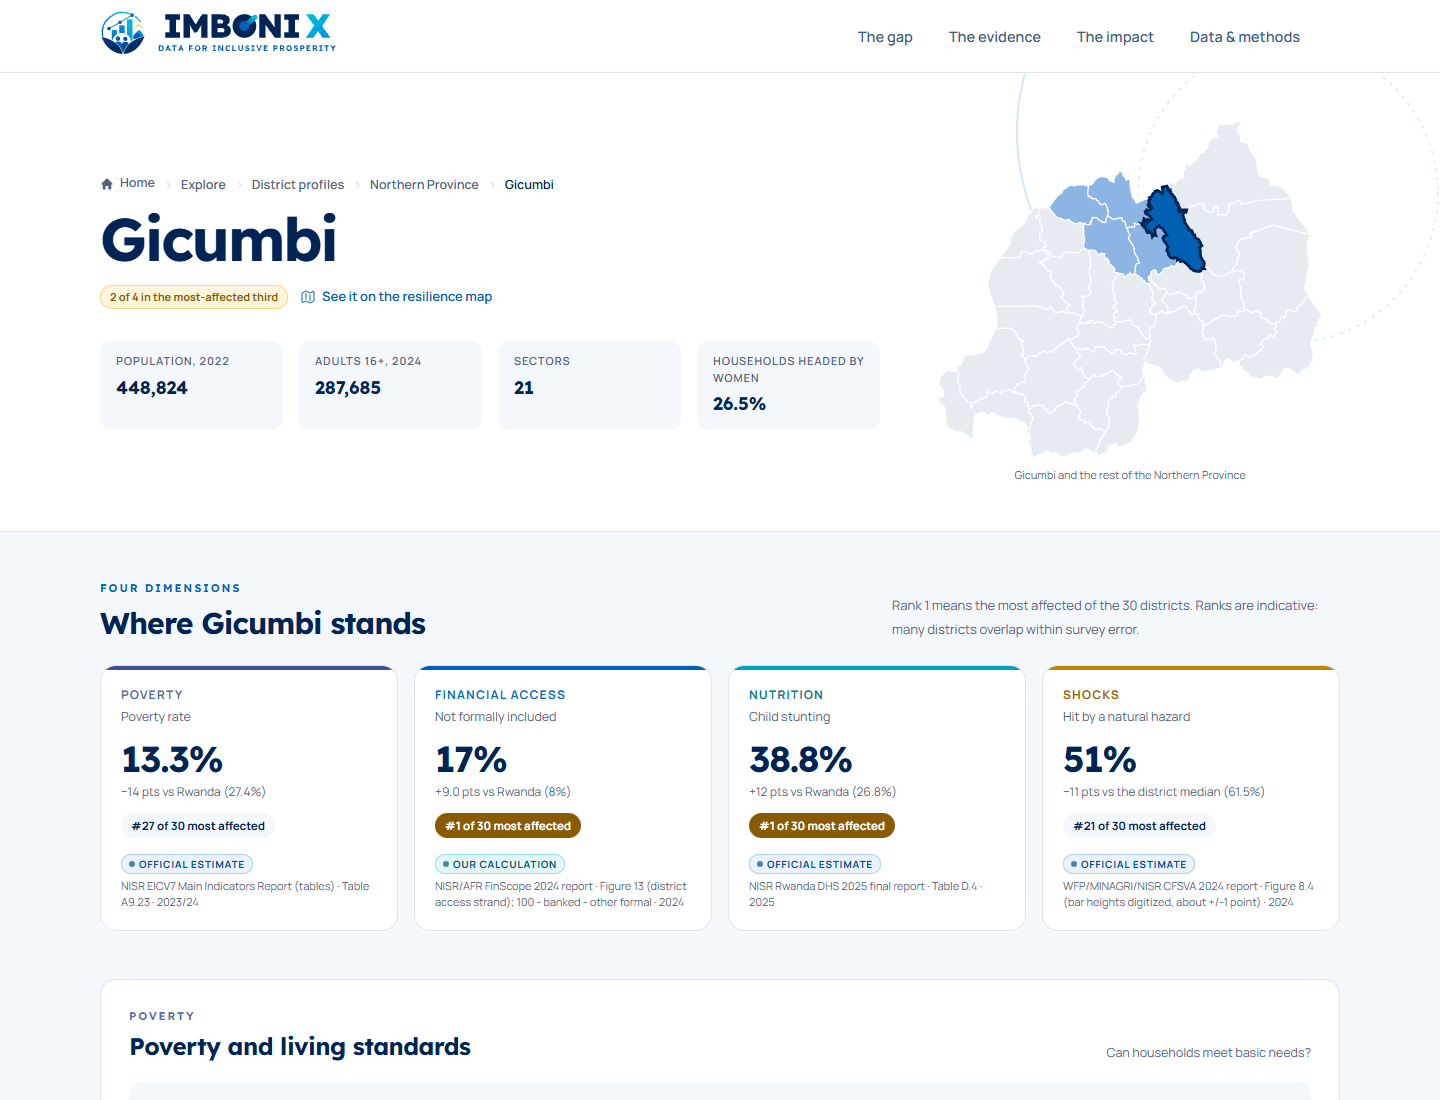
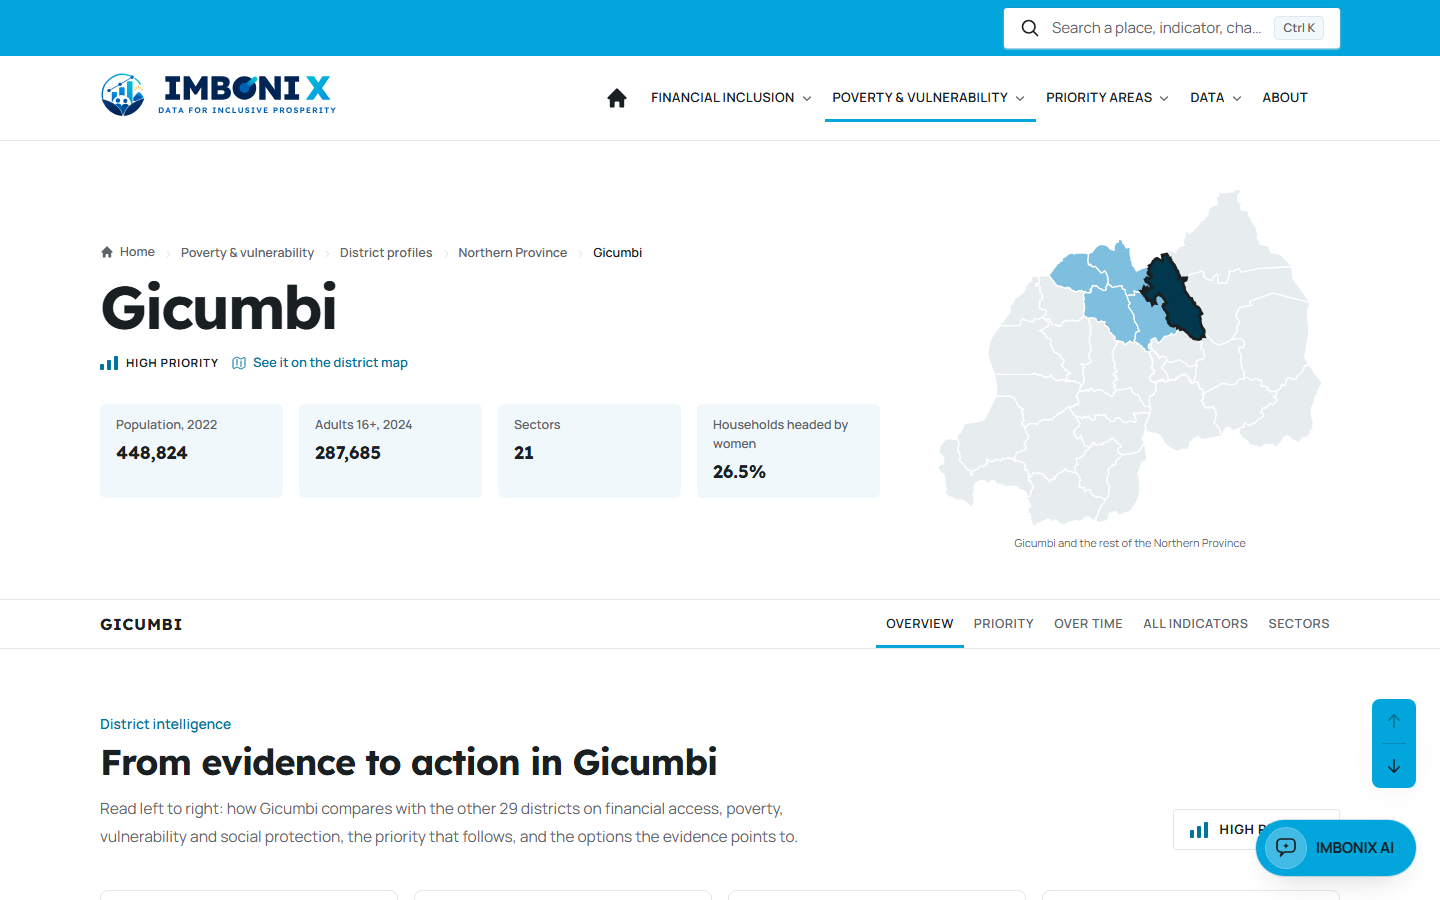
docs: refresh screenshots to the current design and strengthen the case
- Capture current home, home-mobile, priorities and district screenshots
  (photo hero, the IMBONIX AI launcher, real figures); keep map.png.
- Restore the README screenshot gallery — the images existed and were wrongly
  commented out — and drop the "pending" note.
- solution-overview: add the challenge-brief mapping table, a "How we built it"
  section (build pillars, data-journey diagram, AI decisions) and two screenshots.
- ai-assistant: add a table of contents.
- Reframe docs/screenshots as a refresh guide; tick the screenshots checklist.

diff --git a/docs/submission/solution-overview.md b/docs/submission/solution-overview.md
@@ -24,6 +24,8 @@
 > households left behind cluster in the same districts where poverty, poor nutrition and shocks pile up. **IMBONIX makes
 > that overlap visible — and asks it anything, in plain language.**
 
+![The IMBONIX homepage: the inclusion-vs-resilience gap, with the IMBONIX AI assistant](../screenshots/home.png)
+
 ## Contents
 
 1. [At a glance](#at-a-glance)
@@ -31,12 +33,13 @@
 3. [The problem we name](#the-problem-we-name)
 4. [The solution](#the-solution)
 5. [How it works](#how-it-works)
-6. [Judging scorecard](#judging-scorecard) ← the case, criterion by criterion
-7. [Data & methodology](#data--methodology)
-8. [Who benefits](#who-benefits)
-9. [Alignment with Rwanda's priorities](#alignment-with-rwandas-priorities)
-10. [Honest framing](#honest-framing)
-11. [Run it](#run-it)
+6. [How we built it](#how-we-built-it) ← the engineering, end to end
+7. [Judging scorecard](#judging-scorecard) ← the case, criterion by criterion
+8. [Data & methodology](#data--methodology)
+9. [Who benefits](#who-benefits)
+10. [Alignment with Rwanda's priorities](#alignment-with-rwandas-priorities)
+11. [Honest framing](#honest-framing)
+12. [Run it](#run-it)
 
 ---
 
@@ -55,9 +58,19 @@
 
 ## The challenge
 
-Track 2 asks teams to use **NISR and complementary data** to understand financial exclusion and poverty in Rwanda and
-to point to **where action is needed** — in service of Rwanda's national goals (**Vision 2050**, **NST2**, the
-**National Financial Inclusion Roadmap 2025–2030** and the **Social Protection Sector Strategic Plan**).
+> **Track 2 — Financial Inclusion & Poverty Reduction.** *Use data to understand financial exclusion, poverty
+> dynamics, and the impact of social protection programs in Rwanda.* Solutions should address a real gap or showcase
+> financial-intervention impact; be informed by NISR data (with or without other open datasets); and offer tangible,
+> practical impact to vulnerable households, policymakers or civil society.
+
+In service of Rwanda's national goals — **Vision 2050**, **NST2**, the **National Financial Inclusion Roadmap
+2025–2030** and the **Social Protection Sector Strategic Plan**. Here is exactly how IMBONIX answers the brief:
+
+| The brief asks for… | How IMBONIX delivers it |
+|---|---|
+| **A real gap, or intervention impact** | We name the *access ≠ resilience* gap and map where poverty, exclusion, poor nutrition and shocks **overlap**; we track **VUP payment timeliness** and each district's **distance to its national target**. |
+| **Informed by NISR data** (+ optional open data) | Every figure is transcribed from a named NISR or partner table (EICV7, FinScope, DHS, CFSVA, LFS, 2022 census…); maps add only open **geoBoundaries** outlines and **OpenFreeMap** tiles. |
+| **Tangible impact for households / policymakers / civil society** | Five named audiences, each routed to the page they'd use; **priority districts** and an **intervention planner** that flag where to act first by a rule anyone can check. |
 
 ## The problem we name
 
@@ -108,6 +121,43 @@ The site is organised in four areas, in the calm style of Rwanda's government se
 | **Social protection** | Who do programmes reach, and how well? | VUP payment timeliness, priority districts, a policy-scenario & intervention planner |
 | **Data & About** | Where does every figure come from? | Every indicator with its table, year and trust label; a JSON API; the full method |
 
+## How we built it
+
+IMBONIX was engineered the way a government statistics product should be: **evidence first, every figure traceable,
+every colour and claim governed by a test.** The build has seven pillars.
+
+| Pillar | How we built it |
+|---|---|
+| **1 · Data pipeline** | Python scripts transcribe **named NISR/partner tables** to CSV, then `scripts/data/build_web_data.py` generates a small, **versioned JSON** dataset. CI re-runs it and **fails if the output doesn't match exactly**. Raw microdata stays in ignored folders — never committed. |
+| **2 · Trust labelling** | Every value carries one of **six status labels** (official estimate · IMBONIX calculation · model estimate · projection · scenario · policy target) with its source, table and year, baked into the data model so nothing appears unlabelled. |
+| **3 · Design system** | Two colours only (brand cyan + white), defined in **one palette module** — a test **fails the build if any component hardcodes a colour**. Every chart is validated for colour-vision deficiency and ships with a legend and a table view. |
+| **4 · Platform** | **Next.js 15 (App Router)**, React 19 server/client components, **TypeScript strict**, Tailwind. Per-page metadata and breadcrumbs, permanent redirects for moved URLs, a site-wide search, and reduced-motion-aware scroll reveal. |
+| **5 · IMBONIX AI** | A **same-origin route** grounds Claude **or** free-tier Gemini in the NISR digest, **streams** the answer, reads an attached image/PDF, resolves place names to their sector/district, and **falls back to a deterministic on-device engine** when no key is set. See [IMBONIX AI](../ai-assistant.md). |
+| **6 · Quality & CI** | On **every push**: `typecheck`, ESLint (incl. accessibility), **88 unit tests**, Prettier, production `build`, `npm audit`, a **gitleaks** secret scan of the full history, and a Docker build that starts both images and waits for health checks. |
+| **7 · Workflow** | Conventional Commits on `feature/*` → `develop` → `testing` → `main` (**main only by pull request**), so every change is reviewed and green before it lands. |
+
+**The data journey, end to end:**
+
+```mermaid
+flowchart LR
+  R["NISR / partner<br/>reports (PDF, XLSX)"] --> X["data/extracts<br/>CSV + table refs"]
+  X --> B["build_web_data.py"]
+  B --> J["generated JSON<br/>+ GeoJSON"]
+  J --> W["Web app"]
+  J --> API["JSON API"]
+  J --> AId["AI digest<br/>(system prompt)"]
+```
+
+**How IMBONIX AI was built — the key decisions:**
+
+| Decision | Why |
+|---|---|
+| **Grounding over training** | The whole NISR digest travels *with* each question, so answers come from published figures — and updating the data updates the assistant, with no retraining. |
+| **Two interchangeable backends** | Claude when a key is present, else **free-tier Gemini** — so the full experience is demonstrable **at no cost**. |
+| **Deterministic fallback** | If no key is set or the model is unreachable, an on-device engine answers from the same figures, so a demo **never** depends on a secret or the network. |
+| **Multimodal + multilingual + voice** | Reads uploaded charts/reports; answers in **EN / FR / Kinyarwanda**; speaks and listens via the Web Speech API — built for non-technical users. |
+| **Safe by construction** | Key read only server-side, never in the browser; per-IP rate limit; output, turn and attachment caps; declines off-topic requests; never invents a number. |
+
 ## Judging scorecard
 
 The case for IMBONIX against the hackathon's five criteria (20 points each). Each row names **what judges look for**,
@@ -148,6 +198,10 @@ The case for IMBONIX against the hackathon's five criteria (20 points each). Eac
 | Researchers | Every figure with its table, year and trust label; a JSON API; rebuild scripts | Data |
 | Civil society | Open figures with sources, to follow programmes and speak for places left behind | Districts |
 | Development partners | Where poverty, exclusion, poor nutrition and shocks overlap | Poverty dynamics → Overlapping needs |
+
+It ends in action — seven policy levers, each flagging districts by one published figure and a stated, checkable rule:
+
+![Priority ranking: seven policy levers, each flagging districts by a published figure and a stated rule](../screenshots/priorities.png)
 
 ## Alignment with Rwanda's priorities
 

diff --git a/README.md b/README.md
@@ -47,11 +47,7 @@ IMBONIX is an independent team project. It is **not an official NISR product** a
 - **[AI-assistance disclosure](docs/submission/ai-disclosure.md)** — required by the rules: how AI tools were used, and the team's responsibility for every figure.
 - **Live app:** _deploy and add the public URL here_ (see the [Vercel quickstart](docs/deployment.md#deploy-the-web-app-to-vercel-fastest)) · **Source:** this repository.
 
-<!-- Screenshots: add the files named below into docs/screenshots/ (see the guide there), then uncomment.
 ![The IMBONIX homepage](docs/screenshots/home.png)
--->
-
-> 📸 **Screenshots pending.** The images for this README go in [`docs/screenshots/`](docs/screenshots/) — the guide there lists the exact filenames. Until then, run the app locally (see [Getting started](#getting-started)) or open the live URL above.
 
 ## Site map
 
@@ -104,18 +100,16 @@ source, and never invent a number.
 See [docs/ai-assistant.md](docs/ai-assistant.md) for the architecture and
 [docs/submission/demo-script.md](docs/submission/demo-script.md) for a judge walkthrough.
 
-<!-- Screenshots: add these files into docs/screenshots/ (see the guide there), then uncomment.
 <table>
   <tr>
-    <td><img src="docs/screenshots/map.png" alt="Resilience map zoomed to Nyamagabe's sectors"></td>
+    <td><img src="docs/screenshots/map.png" alt="Resilience map zoomed to a district's sectors"></td>
     <td><img src="docs/screenshots/district.png" alt="Gicumbi district profile"></td>
   </tr>
   <tr>
-    <td><img src="docs/screenshots/priorities.png" alt="Intervention priorities"></td>
+    <td><img src="docs/screenshots/priorities.png" alt="Priority ranking by policy lever"></td>
     <td align="center"><img src="docs/screenshots/home-mobile.png" alt="Homepage on a phone" width="260"></td>
   </tr>
 </table>
--->
 
 ## How the data is handled
 

diff --git a/docs/screenshots/README.md b/docs/screenshots/README.md
@@ -1,10 +1,11 @@
 # Screenshots
 
-Put the images the README and the submission use in **this folder**, with the exact filenames below. The README already
-references them (currently commented out) — once a file is here, uncomment its tag in the README and it renders.
+These images illustrate the [main README](../../README.md) and the submission. The current set (`home.png`,
+`home-mobile.png`, `priorities.png`, `district.png`, `map.png`) is **already in the repo and rendering**. Use this guide
+to **refresh** them when the design changes — keep the same filenames and the README updates automatically.
 
 Capture against the running app (`npm run dev` in `apps/web`, or the live URL). Use a clean browser window (no
-dev-tools, no extensions bar). PNG, retina/2× if you can; keep each under ~1 MB.
+dev-tools, no extensions bar). PNG; keep each around 1 MB or less.
 
 | Filename | Page | Viewport | What to show |
 | --- | --- | --- | --- |
@@ -25,5 +26,5 @@ dev-tools, no extensions bar). PNG, retina/2× if you can; keep each under ~1 MB
 Dev note: on first load each page compiles for a few seconds in `npm run dev` — wait for it to settle before capturing,
 or use `npm run build && npm run start` for instant, production-looking pages.
 
-After adding the files, uncomment the image tags in the repository [`README.md`](../../README.md) (search for
-"Screenshots").
+Replacing a file here (same name) updates the README automatically — no edit needed. The optional `ai.png` is referenced
+nowhere yet; add it to the README if you capture it.

diff --git a/docs/ai-assistant.md b/docs/ai-assistant.md
@@ -10,6 +10,8 @@ This document explains what it is, how it is built, why it is trustworthy, and h
 criteria. For the whole-platform story see [`submission/solution-overview.md`](submission/solution-overview.md); for the
 live walkthrough see [`submission/demo-script.md`](submission/demo-script.md).
 
+**Contents:** [What it does](#1-what-it-does) · [Architecture](#2-architecture-at-a-glance) · [Grounding](#3-grounding--why-the-answers-can-be-trusted) · [Backends](#4-the-two-backends) · [Multimodal](#5-multimodal-input) · [Place intelligence](#6-place-intelligence) · [Voice](#7-voice) · [Safety & privacy](#8-safety-privacy-and-cost) · [Judging criteria](#9-how-it-maps-to-the-judging-criteria) · [Configuration](#10-configuration)
+
 ---
 
 ## 1. What it does

diff --git a/docs/submission/README.md b/docs/submission/README.md
@@ -52,7 +52,7 @@ charts and reports. It is independent, open-source, and **not an official NISR p
 - [ ] **Documentation** — this package, plus the top-level [README](../../README.md) and [docs/](../).
 - [ ] **AI disclosure** — [ai-disclosure.md](ai-disclosure.md), with the specific tools recorded.
 - [ ] **Team** — exactly 2 students, at least one Rwandan citizen; student IDs ready.
-- [ ] **Screenshots** — add to [docs/screenshots/](../screenshots/) (guide there) and uncomment the README tags.
+- [x] **Screenshots** — present in [docs/screenshots/](../screenshots/) and rendering in the README (refresh if the design changes).
 
 <div align="center">
 
